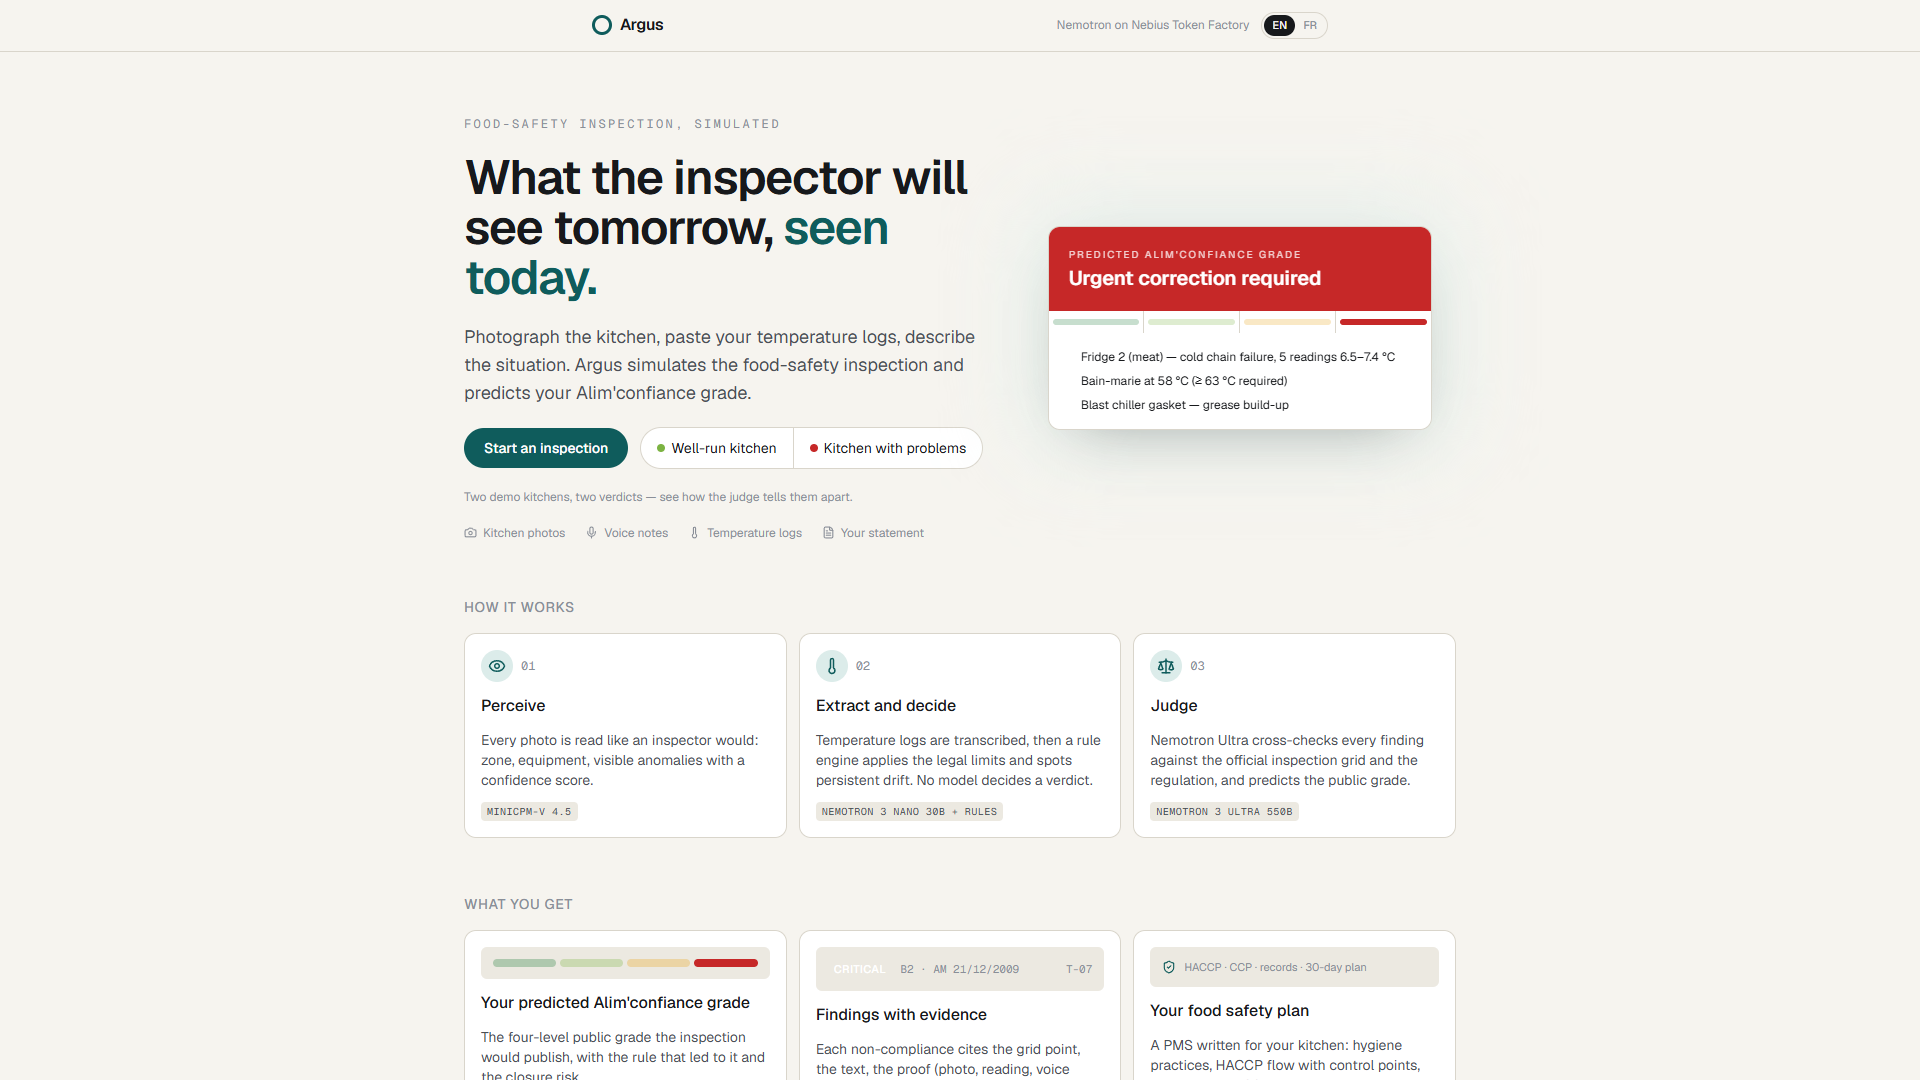
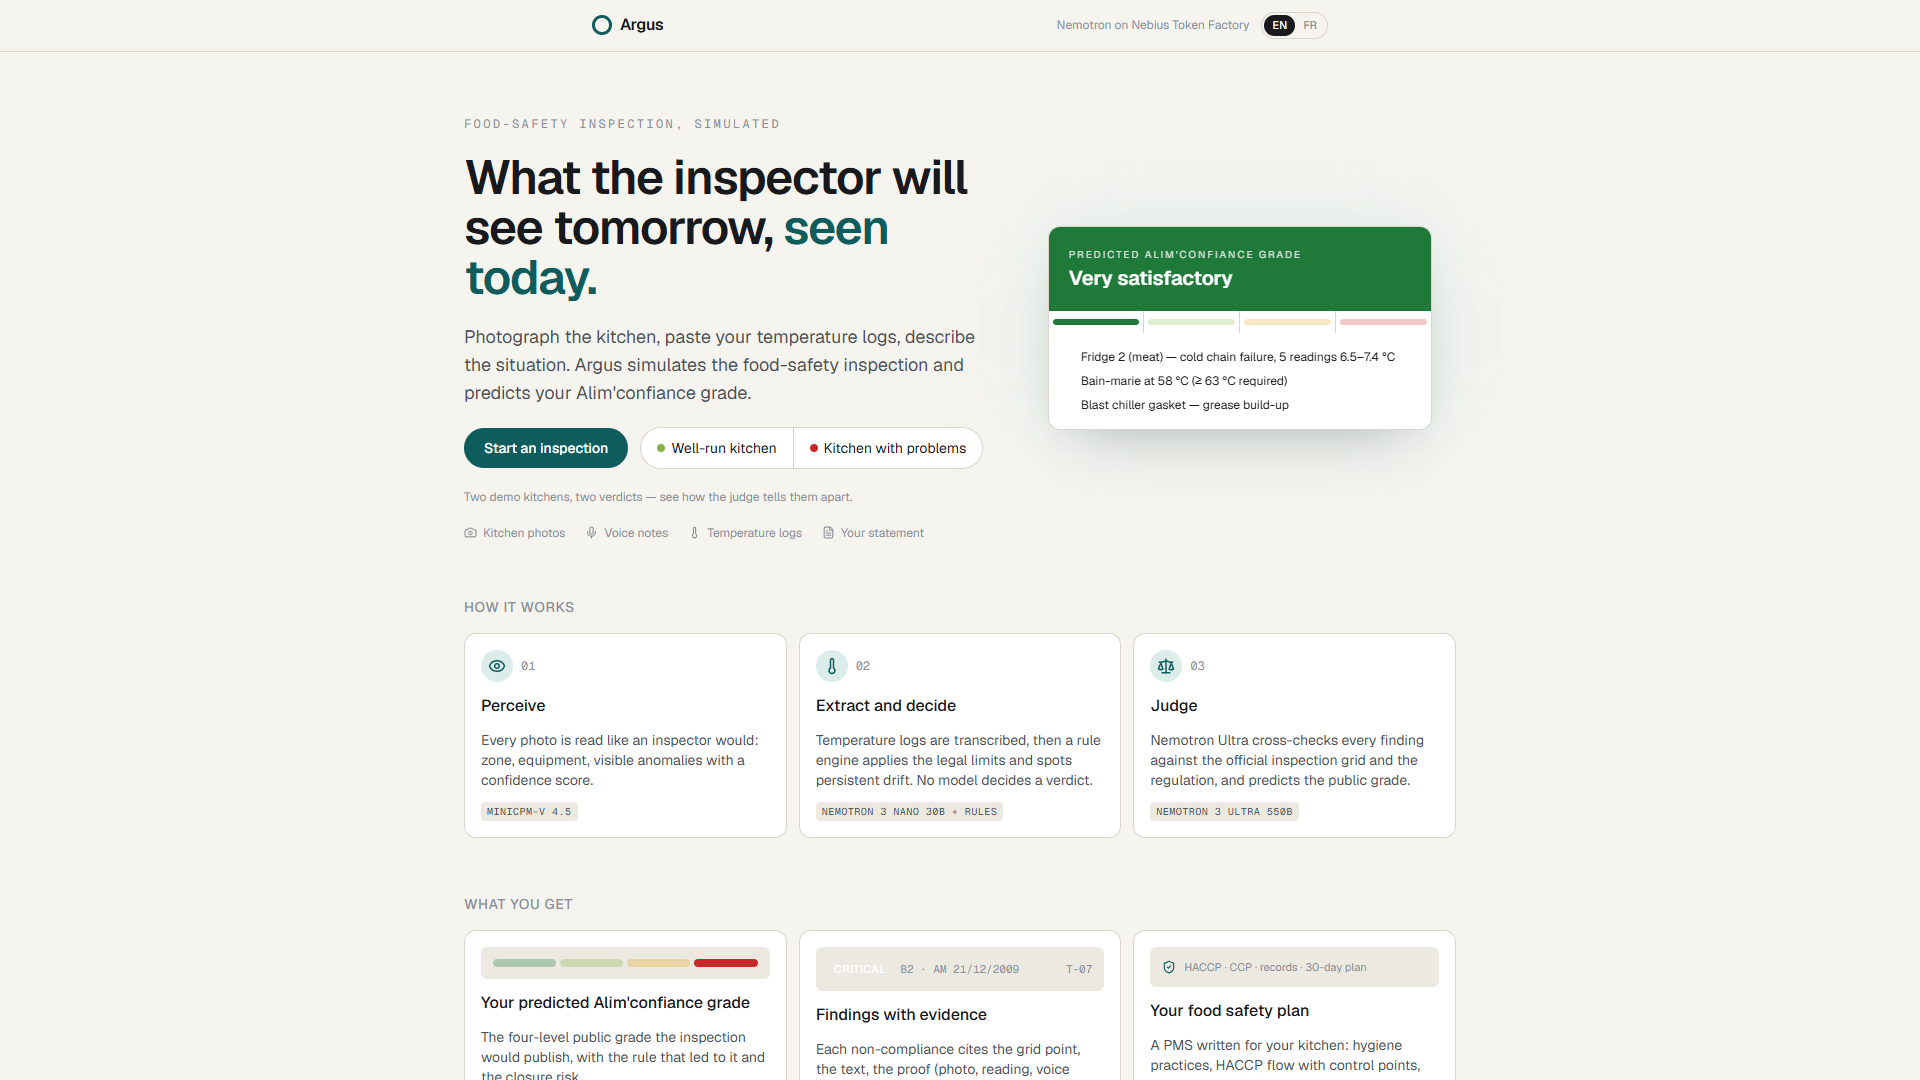
Schema: accept evidence returned as an array (merge refs)

Changed region(s): [[0.5312, 0.1833, 0.75, 0.3056]]

diff --git a/src/lib/schemas.ts b/src/lib/schemas.ts
@@ -140,17 +140,28 @@ export const Finding = z.object({
   observation: z.string(),
   regulatory_reference: z.string(),
   risk: z.string(),
-  evidence: z.object({
-    type: lenientEnum(["photo", "temperature", "audio", "declared"], "declared", {
-      releve: "temperature",
-      reading: "temperature",
-      voice: "audio",
-      voice_note: "audio",
-      declaratif: "declared",
-      statement: "declared",
+  // Ultra sometimes returns several pieces of evidence as an array: keep the first type, merge the refs.
+  evidence: z.preprocess(
+    (v) => {
+      if (Array.isArray(v)) {
+        const items = v.filter((x) => x && typeof x === "object") as { type?: unknown; ref?: unknown }[];
+        if (!items.length) return v;
+        return { type: items[0].type, ref: items.map((x) => String(x.ref ?? "")).filter(Boolean).join(", ") };
+      }
+      return v;
+    },
+    z.object({
+      type: lenientEnum(["photo", "temperature", "audio", "declared"], "declared", {
+        releve: "temperature",
+        reading: "temperature",
+        voice: "audio",
+        voice_note: "audio",
+        declaratif: "declared",
+        statement: "declared",
+      }),
+      ref: z.coerce.string(),
     }),
-    ref: z.string(),
-  }),
+  ),
   corrective_action: z.string(),
   deadline: lenientEnum(["immediate", "24h", "7d", "30d"], "7d", {
     immediat: "immediate",
